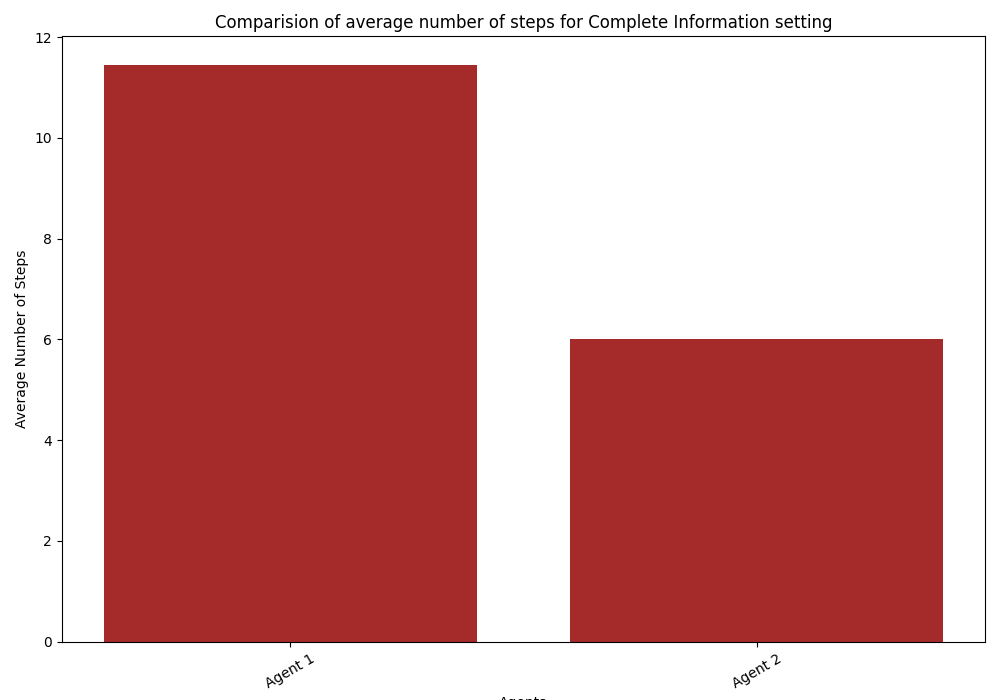
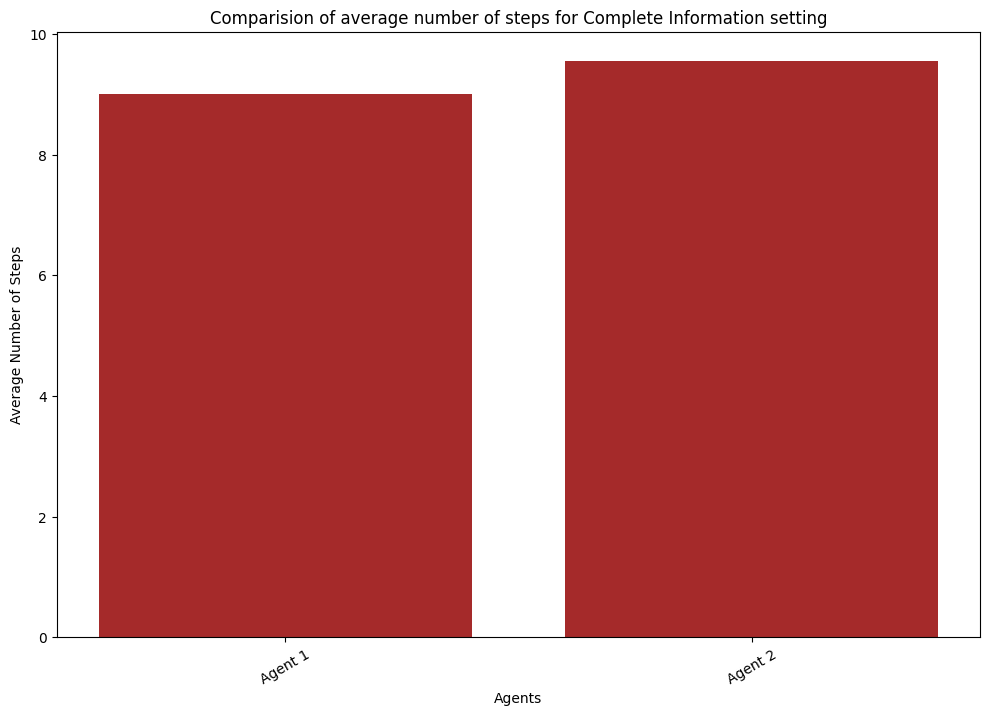
Fixed Axis getting cutoff

diff --git a/main.py b/main.py
@@ -9,8 +9,8 @@ import matplotlib.pyplot as plt
 
 def main():
 
-    num_runs = 3
-    num_environments = 3
+    num_runs = 100
+    num_environments = 30
     total_runs = num_runs * num_environments
 
     a1_caught = 0
@@ -393,7 +393,7 @@ def main():
     plt.tight_layout()
     plt.xticks(rotation = 30)
     #plt.show() 
-    fig_complete_info.savefig('plots/Plot1_complete_information_setting.png')
+    fig_complete_info.savefig('plots/Plot1_complete_information_setting.png', bbox_inches='tight')
 
     fig_complete_info_steps = plt.figure(figsize= (10,7))
 
@@ -406,7 +406,7 @@ def main():
     plt.xticks(rotation = 30)
     #plt.show() 
 
-    fig_complete_info_steps.savefig('plots/Plot2_complete_information_setting.png')
+    fig_complete_info_steps.savefig('plots/Plot2_complete_information_setting.png', bbox_inches='tight')
 
 
     ## Plots for Partial Prey information setting 
@@ -426,7 +426,7 @@ def main():
     plt.tight_layout()
     plt.xticks(rotation = 30)
     #plt.show() 
-    fig_partial_prey.savefig('plots/Plot1_partial_prey_information_setting.png')
+    fig_partial_prey.savefig('plots/Plot1_partial_prey_information_setting.png', bbox_inches='tight')
 
     fig_partial_prey_steps = plt.figure(figsize= (10,7))
 
@@ -439,7 +439,7 @@ def main():
     plt.xticks(rotation = 30)
     #plt.show() 
 
-    fig_partial_prey_steps.savefig('plots/Plot2_partial_prey_information_setting.png')
+    fig_partial_prey_steps.savefig('plots/Plot2_partial_prey_information_setting.png', bbox_inches='tight')
 
     ## Plots for Partial predator setting 
 
@@ -458,7 +458,7 @@ def main():
     plt.tight_layout()
     plt.xticks(rotation = 30)
     #plt.show() 
-    fig_partial_predator.savefig('plots/Plot1_partial_predator_information_setting.png')
+    fig_partial_predator.savefig('plots/Plot1_partial_predator_information_setting.png', bbox_inches='tight')
 
     fig_partial_predator_steps = plt.figure(figsize= (10,7))
 
@@ -471,7 +471,7 @@ def main():
     plt.xticks(rotation = 30)
     #plt.show() 
 
-    fig_partial_predator_steps.savefig('plots/Plot2_partial_predator_information_setting.png')
+    fig_partial_predator_steps.savefig('plots/Plot2_partial_predator_information_setting.png', bbox_inches='tight')
 
     ## Plots for combined partial setting
 
@@ -490,7 +490,7 @@ def main():
     plt.tight_layout()
     plt.xticks(rotation = 30)
     #plt.show() 
-    fig_combined_partial.savefig('plots/Plot1_combined_information_setting.png')
+    fig_combined_partial.savefig('plots/Plot1_combined_information_setting.png', bbox_inches='tight')
     fig_combined_partial_steps = plt.figure(figsize= (15,7))
     plt.bar(Agent_names[6:12], Steps_rates[6:12], color ='brown')
     plt.xlabel("Agents")
@@ -499,7 +499,7 @@ def main():
     plt.tight_layout()
     plt.xticks(rotation = 30)
 
-    fig_combined_partial_steps.savefig('plots/Plot2_combined_information_setting.png') 
+    fig_combined_partial_steps.savefig('plots/Plot2_combined_information_setting.png', bbox_inches='tight') 
 
     ## All Plot
     
@@ -516,7 +516,7 @@ def main():
     plt.title("Rate of Events Causing End Game")
     plt.tight_layout()
     plt.xticks(rotation = 30)
-    fig_all.savefig('plots/Plot1_all.png')
+    fig_all.savefig('plots/Plot1_all.png', bbox_inches='tight')
 
 
     ## MISC plots
@@ -530,7 +530,7 @@ def main():
     plt.tight_layout()
     plt.xticks(rotation = 30)
     #plt.show() 
-    figs.savefig('plots/Success_Plot.png')
+    figs.savefig('plots/Success_Plot.png', bbox_inches='tight')
 
     figs = plt.figure(figsize = (10, 7))
 
@@ -541,7 +541,7 @@ def main():
     plt.tight_layout()
     plt.xticks(rotation = 30)
     #plt.show() 
-    figs.savefig('plots/Failure_Plot.png')
+    figs.savefig('plots/Failure_Plot.png', bbox_inches='tight')
 
     figs = plt.figure(figsize = (10, 7))
 
@@ -552,7 +552,7 @@ def main():
     plt.tight_layout()
     plt.xticks(rotation = 30)
     #plt.show() 
-    figs.savefig('plots/Avg_steps_plot.png')
+    figs.savefig('plots/Avg_steps_plot.png', bbox_inches='tight')
 
     figs = plt.figure(figsize = (10, 7))
 
@@ -563,7 +563,7 @@ def main():
     plt.tight_layout()
     plt.xticks(rotation = 30)
     #plt.show() 
-    figs.savefig('plots/Prey_certainity_Plot.png')
+    figs.savefig('plots/Prey_certainity_Plot.png', bbox_inches='tight')
 
     figs = plt.figure(figsize = (10, 7))
 
@@ -574,7 +574,7 @@ def main():
     plt.tight_layout()
     plt.xticks(rotation = 30)
     #plt.show() 
-    figs.savefig('plots/Predator_certainity_plot.png')
+    figs.savefig('plots/Predator_certainity_plot.png', bbox_inches='tight')
 
     ##DEFECTIVE AGENT PLOTS
 
@@ -654,7 +654,7 @@ def main():
     plt.tight_layout()
     plt.xticks(rotation = 30)
     #plt.show() 
-    fig_combined_partial.savefig('plots/Plot1_combined_information_setting_defective.png')
+    fig_combined_partial.savefig('plots/Plot1_combined_information_setting_defective.png', bbox_inches='tight')
 
 
     ## MISC plots
@@ -668,7 +668,7 @@ def main():
     plt.tight_layout()
     plt.xticks(rotation = 30)
     #plt.show() 
-    figs.savefig('plots/Success_Plot_defective.png')
+    figs.savefig('plots/Success_Plot_defective.png', bbox_inches='tight')
 
     figs = plt.figure(figsize = (10, 7))
 
@@ -679,7 +679,7 @@ def main():
     plt.tight_layout()
     plt.xticks(rotation = 30)
     #plt.show() 
-    figs.savefig('plots/Failure_Plot_defective.png')
+    figs.savefig('plots/Failure_Plot_defective.png', bbox_inches='tight')
 
     figs = plt.figure(figsize = (10, 7))
 
@@ -690,7 +690,7 @@ def main():
     plt.tight_layout()
     plt.xticks(rotation = 30)
     #plt.show() 
-    figs.savefig('plots/Avg_steps_plot_defective.png')
+    figs.savefig('plots/Avg_steps_plot_defective.png', bbox_inches='tight')
 
     figs = plt.figure(figsize = (10, 7))
 
@@ -701,7 +701,7 @@ def main():
     plt.tight_layout()
     plt.xticks(rotation = 30)
     #plt.show() 
-    figs.savefig('plots/Prey_certainity_Plot_defective.png')
+    figs.savefig('plots/Prey_certainity_Plot_defective.png', bbox_inches='tight')
 
     figs = plt.figure(figsize = (10, 7))
 
@@ -712,7 +712,7 @@ def main():
     plt.tight_layout()
     plt.xticks(rotation = 30)
     #plt.show() 
-    figs.savefig('plots/Predator_certainity_plot_defective.png')
+    figs.savefig('plots/Predator_certainity_plot_defective.png', bbox_inches='tight')
 
     
 
